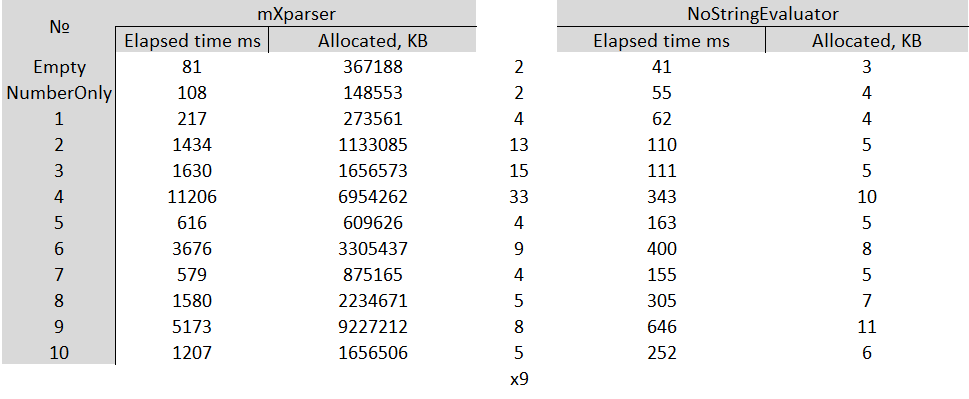
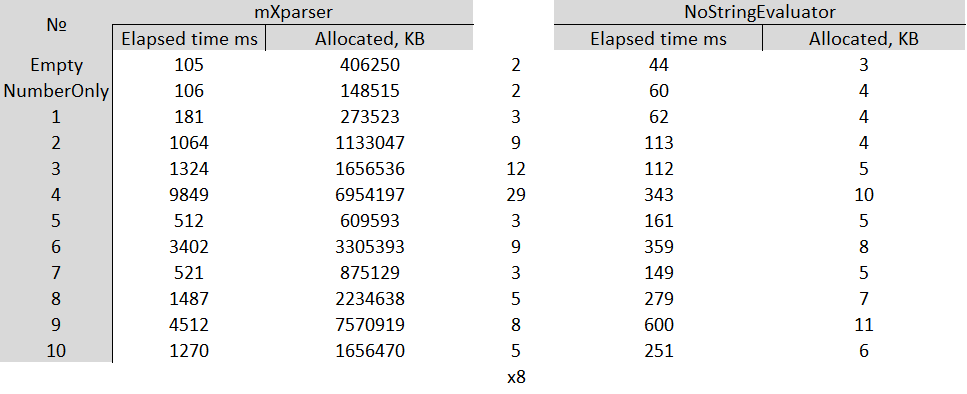
Improved benchmark quality

diff --git a/BenchResults/both.html b/BenchResults/both.html
@@ -2,7 +2,7 @@
 <html lang='en'>
 <head>
 <meta charset='utf-8' />
-<title>ConsoleApp.Benchmark.BenchNumbers-20221007-151232</title>
+<title>ConsoleApp.Benchmark.BenchNumbers-20230130-172830</title>
 
 <style type="text/css">
 	table { border-collapse: collapse; display: block; width: 100%; overflow: auto; }
@@ -13,43 +13,43 @@
 </head>
 <body>
 <pre><code>
-BenchmarkDotNet=v0.13.1, OS=Windows 10.0.19044.2006 (21H2)
+BenchmarkDotNet=v0.13.4, OS=Windows 10 (10.0.19044.2486/21H2/November2021Update)
 11th Gen Intel Core i7-1185G7 3.00GHz, 1 CPU, 8 logical and 4 physical cores
-.NET SDK=6.0.401
-  [Host]     : .NET 6.0.9 (6.0.922.41905), X64 RyuJIT
-  Job-UVASNZ : .NET 6.0.9 (6.0.922.41905), X64 RyuJIT
+.NET SDK=7.0.101
+  [Host]     : .NET 7.0.1 (7.0.122.56804), X64 RyuJIT AVX2
+  Job-DFNJJK : .NET 7.0.1 (7.0.122.56804), X64 RyuJIT AVX2
 </code></pre>
 <pre><code>InvocationCount=3  IterationCount=10  RunStrategy=Monitoring  
 UnrollFactor=1  WarmupCount=2  
 </code></pre>
 
 <table>
-<thead><tr><th>       Method</th><th>  Mean</th><th>Error</th><th>StdDev</th><th> Gen 0</th><th>Gen 1</th><th>Allocated</th>
+<thead><tr><th>       Method</th><th> Mean</th><th>Error</th><th>StdDev</th><th>  Gen0</th><th>Gen1</th><th>Allocated</th>
 </tr>
-</thead><tbody><tr><td>Empty_NoString</td><td>41.32 ms</td><td>1.315 ms</td><td>0.870 ms</td><td>-</td><td>-</td><td>3 KB</td>
-</tr><tr><td>NumberOnly_NoString</td><td>55.23 ms</td><td>1.043 ms</td><td>0.690 ms</td><td>-</td><td>-</td><td>4 KB</td>
-</tr><tr><td>Formula1_NoString</td><td>62.29 ms</td><td>1.456 ms</td><td>0.963 ms</td><td>-</td><td>-</td><td>4 KB</td>
-</tr><tr><td>Formula2_NoString</td><td>110.10 ms</td><td>1.917 ms</td><td>1.268 ms</td><td>-</td><td>-</td><td>5 KB</td>
-</tr><tr><td>Formula3_NoString</td><td>111.04 ms</td><td>1.994 ms</td><td>1.319 ms</td><td>-</td><td>-</td><td>5 KB</td>
-</tr><tr><td>Formula4_NoString</td><td>343.27 ms</td><td>13.962 ms</td><td>9.235 ms</td><td>-</td><td>-</td><td>10 KB</td>
-</tr><tr><td>Formula5_NoString</td><td>163.58 ms</td><td>4.221 ms</td><td>2.792 ms</td><td>-</td><td>-</td><td>5 KB</td>
-</tr><tr><td>Formula6_NoString</td><td>400.18 ms</td><td>6.320 ms</td><td>4.181 ms</td><td>-</td><td>-</td><td>8 KB</td>
-</tr><tr><td>Formula7_NoString</td><td>155.50 ms</td><td>2.455 ms</td><td>1.624 ms</td><td>-</td><td>-</td><td>5 KB</td>
-</tr><tr><td>Formula8_NoString</td><td>305.73 ms</td><td>6.025 ms</td><td>3.985 ms</td><td>-</td><td>-</td><td>7 KB</td>
-</tr><tr><td>Formula9_NoString</td><td>646.06 ms</td><td>18.072 ms</td><td>11.954 ms</td><td>-</td><td>-</td><td>11 KB</td>
-</tr><tr><td>Formula10_NoString</td><td>252.50 ms</td><td>6.380 ms</td><td>4.220 ms</td><td>-</td><td>-</td><td>6 KB</td>
-</tr><tr><td>Empty_MxParser</td><td>81.34 ms</td><td>3.891 ms</td><td>2.573 ms</td><td>59666.6667</td><td>-</td><td>367,188 KB</td>
-</tr><tr><td>NumberOnly_MxParser</td><td>108.79 ms</td><td>3.725 ms</td><td>2.464 ms</td><td>24000.0000</td><td>-</td><td>148,553 KB</td>
-</tr><tr><td>Formula1_MxParser</td><td>217.94 ms</td><td>4.486 ms</td><td>2.967 ms</td><td>44333.3333</td><td>-</td><td>273,561 KB</td>
-</tr><tr><td>Formula2_MxParser</td><td>1,434.13 ms</td><td>14.178 ms</td><td>9.378 ms</td><td>184666.6667</td><td>666.6667</td><td>1,133,085 KB</td>
-</tr><tr><td>Formula3_MxParser</td><td>1,630.28 ms</td><td>24.627 ms</td><td>16.289 ms</td><td>270333.3333</td><td>1000.0000</td><td>1,656,573 KB</td>
-</tr><tr><td>Formula4_MxParser</td><td>11,206.91 ms</td><td>53.136 ms</td><td>35.146 ms</td><td>1135000.0000</td><td>17666.6667</td><td>6,954,262 KB</td>
-</tr><tr><td>Formula5_MxParser</td><td>616.48 ms</td><td>7.682 ms</td><td>5.081 ms</td><td>99333.3333</td><td>333.3333</td><td>609,626 KB</td>
-</tr><tr><td>Formula6_MxParser</td><td>3,676.18 ms</td><td>40.058 ms</td><td>26.496 ms</td><td>539333.3333</td><td>4333.3333</td><td>3,305,437 KB</td>
-</tr><tr><td>Formula7_MxParser</td><td>579.87 ms</td><td>10.365 ms</td><td>6.856 ms</td><td>142666.6667</td><td>333.3333</td><td>875,165 KB</td>
-</tr><tr><td>Formula8_MxParser</td><td>1,580.51 ms</td><td>23.191 ms</td><td>15.339 ms</td><td>364666.6667</td><td>1666.6667</td><td>2,234,671 KB</td>
-</tr><tr><td>Formula9_MxParser</td><td>5,173.12 ms</td><td>48.245 ms</td><td>31.911 ms</td><td>1506000.0000</td><td>18000.0000</td><td>9,227,212 KB</td>
-</tr><tr><td>Formula10_MxParser</td><td>1,207.34 ms</td><td>19.757 ms</td><td>13.068 ms</td><td>270333.3333</td><td>1000.0000</td><td>1,656,506 KB</td>
+</thead><tbody><tr><td>Empty_NoString</td><td>44.14 ms</td><td>2.692 ms</td><td>1.781 ms</td><td>-</td><td>-</td><td>3.22 KB</td>
+</tr><tr><td>NumberOnly_NoString</td><td>60.43 ms</td><td>8.918 ms</td><td>5.899 ms</td><td>-</td><td>-</td><td>3.61 KB</td>
+</tr><tr><td>Formula1_NoString</td><td>62.71 ms</td><td>5.804 ms</td><td>3.839 ms</td><td>-</td><td>-</td><td>3.74 KB</td>
+</tr><tr><td>Formula2_NoString</td><td>113.28 ms</td><td>9.359 ms</td><td>6.190 ms</td><td>-</td><td>-</td><td>4.6 KB</td>
+</tr><tr><td>Formula3_NoString</td><td>112.77 ms</td><td>11.330 ms</td><td>7.494 ms</td><td>-</td><td>-</td><td>5.08 KB</td>
+</tr><tr><td>Formula4_NoString</td><td>343.05 ms</td><td>4.874 ms</td><td>3.224 ms</td><td>-</td><td>-</td><td>9.84 KB</td>
+</tr><tr><td>Formula5_NoString</td><td>161.84 ms</td><td>9.979 ms</td><td>6.600 ms</td><td>-</td><td>-</td><td>4.98 KB</td>
+</tr><tr><td>Formula6_NoString</td><td>359.61 ms</td><td>4.441 ms</td><td>2.937 ms</td><td>-</td><td>-</td><td>8.26 KB</td>
+</tr><tr><td>Formula7_NoString</td><td>149.88 ms</td><td>8.738 ms</td><td>5.780 ms</td><td>-</td><td>-</td><td>4.8 KB</td>
+</tr><tr><td>Formula8_NoString</td><td>279.11 ms</td><td>6.991 ms</td><td>4.624 ms</td><td>-</td><td>-</td><td>6.59 KB</td>
+</tr><tr><td>Formula9_NoString</td><td>600.18 ms</td><td>28.504 ms</td><td>18.854 ms</td><td>-</td><td>-</td><td>10.76 KB</td>
+</tr><tr><td>Formula10_NoString</td><td>251.93 ms</td><td>8.515 ms</td><td>5.632 ms</td><td>-</td><td>-</td><td>5.65 KB</td>
+</tr><tr><td>Empty_MxParser</td><td>105.05 ms</td><td>4.541 ms</td><td>3.004 ms</td><td>66000.0000</td><td>-</td><td>406250.94 KB</td>
+</tr><tr><td>NumberOnly_MxParser</td><td>106.06 ms</td><td>4.623 ms</td><td>3.058 ms</td><td>24000.0000</td><td>-</td><td>148515.77 KB</td>
+</tr><tr><td>Formula1_MxParser</td><td>181.54 ms</td><td>9.231 ms</td><td>6.106 ms</td><td>44333.3333</td><td>-</td><td>273523.68 KB</td>
+</tr><tr><td>Formula2_MxParser</td><td>1,064.25 ms</td><td>37.678 ms</td><td>24.922 ms</td><td>184666.6667</td><td>333.3333</td><td>1133047.97 KB</td>
+</tr><tr><td>Formula3_MxParser</td><td>1,324.15 ms</td><td>24.339 ms</td><td>16.099 ms</td><td>270333.3333</td><td>1000.0000</td><td>1656536 KB</td>
+</tr><tr><td>Formula4_MxParser</td><td>9,849.26 ms</td><td>205.789 ms</td><td>136.117 ms</td><td>1135000.0000</td><td>23000.0000</td><td>6954197.32 KB</td>
+</tr><tr><td>Formula5_MxParser</td><td>512.43 ms</td><td>17.000 ms</td><td>11.244 ms</td><td>99333.3333</td><td>-</td><td>609593.95 KB</td>
+</tr><tr><td>Formula6_MxParser</td><td>3,402.51 ms</td><td>60.221 ms</td><td>39.833 ms</td><td>539333.3333</td><td>4000.0000</td><td>3305393.91 KB</td>
+</tr><tr><td>Formula7_MxParser</td><td>521.74 ms</td><td>13.912 ms</td><td>9.202 ms</td><td>142666.6667</td><td>-</td><td>875129.09 KB</td>
+</tr><tr><td>Formula8_MxParser</td><td>1,487.89 ms</td><td>159.807 ms</td><td>105.702 ms</td><td>364666.6667</td><td>1333.3333</td><td>2234638.49 KB</td>
+</tr><tr><td>Formula9_MxParser</td><td>4,512.37 ms</td><td>63.861 ms</td><td>42.240 ms</td><td>1235666.6667</td><td>14666.6667</td><td>7570919.34 KB</td>
+</tr><tr><td>Formula10_MxParser</td><td>1,270.60 ms</td><td>31.111 ms</td><td>20.578 ms</td><td>270333.3333</td><td>666.6667</td><td>1656470.52 KB</td>
 </tr></tbody></table>
 </body>
 </html>

diff --git a/ConsoleApp/Benchmark/Base/BenchBase.cs b/ConsoleApp/Benchmark/Base/BenchBase.cs
@@ -39,6 +39,10 @@ public abstract class BenchBase
             new Function("kov", new FExtension_kov()),
             new Function("kovt", new FExtension_kovt())
         };
+        
+        mXparser.disableAlmostIntRounding();
+        mXparser.disableUlpRounding();
+        mXparser.disableCanonicalRounding();
     }
 
     #region NoString

diff --git a/README.md b/README.md
@@ -63,7 +63,7 @@ Microsoft.Extensions.DependencyInjection <br/>
 ## Performance
 Compared with a good solution [mXparser](https://github.com/mariuszgromada/MathParser.org-mXparser "mXparser")
 
-- In general, **x9** faster!
+- In general, **x8** faster!
 
 ### Testing formulas
 |  № | Formula |
@@ -202,7 +202,7 @@ public void SomeMethod()
     // NoStringEvaluator.CreateFacade(opt => opt.WithFunctions(new MyFunction()));
 
     // same with DI
-    // services.AddNoStringEvaluator(opt =>  opt.WithFunctions(new MyFunction()));
+    // services.AddNoStringEvaluator(opt => opt.WithFunctions(new MyFunction()));
 }
 ```
 
